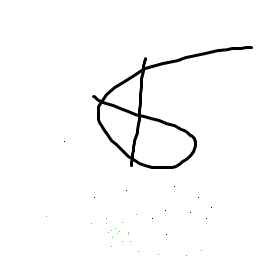
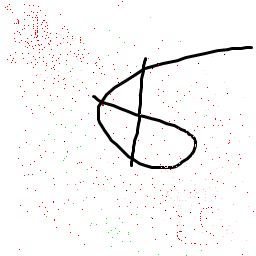
使用socketio并实现批量更新用户操作

Changed region(s): [[0.125, 0.0625, 0.1562, 0.1562], [0.625, 0.625, 0.6562, 0.6562], [0.0938, 0.1562, 0.125, 0.1875]]

diff --git a/src/static/index.html b/src/static/index.html
@@ -19,12 +19,16 @@
 			box-shadow: 0 0 5px grey;
 			transform-origin: top left;
 		}
+		.common-colors {
+			box-shadow: 0 0 5px grey;
+			border-radius: 5px;
+		}
 		.color-card {
 			display: inline-block;
 			width: 22px;
   		height: 22px;
   		margin: 1px 4px;
-			border: 1px solid;
+			border: 1px solid lightgray;
   		border-radius: 5px;
   		cursor: pointer;
   		transform-origin: 50% 50%;
@@ -49,6 +53,7 @@
 	</div>
 </body>
 <script src="vue2.6.1.js"></script>
+<script src="/socket.io/socket.io.js"></script>
 <script>
 	const app = new Vue({
 		el: '#app',
@@ -177,12 +182,15 @@
 				var x = (clientX - rect.left) / this.zoomFactor
 				var y = (clientY - rect.top) / this.zoomFactor
 
-				this.ws.send(JSON.stringify({
-					type:'drawDot',
-					x:parseInt(x),//e.offsetX,
-					y:parseInt(y),//e.offsetY,
+				x = parseInt(x)
+				y = parseInt(y)
+				this.ws.emit('drawDot', {
+					x:x,//e.offsetX,
+					y:y,//e.offsetY,
 					color:this.color,
-				}))
+				})
+				this.ctx.fillStyle = this.color
+				this.ctx.fillRect(x, y, 1, 1)
 			},
 			//滚轮放大缩小
 			handleZoom(e) {
@@ -207,42 +215,43 @@
 			},
 		},
 		mounted() {
-			var ws = new WebSocket(`ws://${location.host}/pixel`)//location.host API
+			var ws = io()
+			// var ws = new WebSocket(`ws://${location.host}/pixel`)//location.host API
 			this.ws = ws
 
 			var canvas = this.$refs.canvas
-			//canvas放大不失真
-			// canvas.addEventListener('click',this.handleCanvasClick)
+			//canvas放大不虚化
+			
 			canvas.style.imageRendering = 'pixelated'
 
 			var ctx = canvas.getContext('2d')
 			this.ctx = ctx
 
-			ws.onmessage = (e) => {
-				var data = e.data
-
-
-				if (Object.prototype.toString.call(data) === '[object Blob]') {
-					
-					var tmpUrl = URL.createObjectURL(data)
-					var image = new Image()
-					image.src = tmpUrl 
-					image.onload = () => {
-						//获取图片地址马上画上去很困难，加个异步延迟执行
-						ctx.drawImage(image, 0, 0)
-					}
-				} else {
-					data = JSON.parse(data)
-					if (data.type == 'updateDot') {
-							ctx.fillStyle = data.color
-							ctx.fillRect(data.x, data.y, 1, 1)
-					} else if (data.type = 'onlineCount') {
-						this.onlineCount = data.count
-					}
+			ws.on('init', imgBinaryData => {
+				console.log('加载图片初始状态使用了',imgBinaryData.byteLength,'字节')
+				var blob = new Blob([new Uint8Array(imgBinaryData)])
+				var tmpUrl = URL.createObjectURL(blob)
+				var image = new Image()
+				image.src = tmpUrl 
+				image.onload = () => {
+					//获取图片地址马上画上去很困难，加个异步延迟执行
+					ctx.drawImage(image, 0, 0)
 				}
-			}		
+			})
+
+			ws.on('updateDot', operationList => {
+				operationList.forEach(data => {
+					ctx.fillStyle = data.color
+					ctx.fillRect(data.x, data.y, 1, 1)
+				})
+			})
+
+			ws.on('onlineCount', data => {
+				console.log(data)
+				this.onlineCount = data.count
+			})
 		}
 	})
-	//问题一 canvas 放大发虚
+	
 </script>
 </html>

diff --git a/src/app.js b/src/app.js
@@ -4,12 +4,13 @@ const path = require('path')
 const ws = require('ws')
 const express = require('express')
 const Jimp = require('jimp')
+const socketIO = require('socket.io')
 
 const port = 9095
 
 const app = express()
 const server = http.createServer(app)
-const wss = new ws.Server({server})
+const io = socketIO(server)
 
 const width = 256
 const height = 256
@@ -37,58 +38,52 @@ async function main() {
 		}
 	
 	}, 3000)
-	
-	wss.on('connection',(ws, req) => {
+	//批量更新
+	let userOperations = []
+
+	setInterval(() => {
+		io.emit('updateDot', userOperations)
+		userOperations = []
+	}, 300)
+
+	io.on('connection',(ws, req) => {
 		//首次连接发送buffer数据
 		img.getBuffer(Jimp.MIME_PNG, (err, buf) => {
 			if(err) {
 				console.log('get buffer err', err)
 			} else {
-				ws.send(buf)
+				ws.emit('init', buf)
 			}
 		})
 		//在线人数功能
-		wss.clients.forEach(ws => {
-			ws.send(JSON.stringify({
-				type:'onlineCount',
-				count:wss.clients.size,
-			}))
-		})
-
+		io.emit('onlineCount',{
+			count:Object.keys(io.sockets.sockets).length,
+		})		
 		ws.on('close', () => {
-			wss.clients.forEach(ws => {
-				ws.send(JSON.stringify({
-					type:'onlineCount',
-					count:wss.clients.size,
-				}))
+			io.emit('onlineCount',{
+				count:Object.keys(io.sockets.sockets).length,
 			})
 		})
 		var lastDraw = 0
 	
-		ws.on('message', msg => {
-			msg = JSON.parse(msg)
+		ws.on('drawDot',data => {
 			var now = Date.now()
-			var {x, y, color} = msg
-			//限制频繁绘制
-			if (msg.type == 'drawDot') {
-				if (now - lastDraw < 200) {
-					return 
-				}
-	
-				if (x > 0 && y > 0 && x < width && y < height) {
-					lastDraw = now
-					//绘制更新间隔标志，用于判断是否保存到本地 
-					lastUpdate = now
-					//后端接收坐标颜色信息，并返回给前端
-					img.setPixelColor(Jimp.cssColorToHex(color), x, y)
-					wss.clients.forEach(client => {
-						client.send(JSON.stringify({
-							type: 'updateDot',
-							x, y, color
-						}))
-					})
-				}
+			var {x, y, color} = data
+			if (now - lastDraw < 200) {
+				return 
 			}
+
+			if (x > 0 && y > 0 && x < width && y < height) {
+				lastDraw = now
+				//绘制更新间隔标志，用于判断是否保存到本地 
+				lastUpdate = now
+				//后端接收坐标颜色信息，并返回给前端
+				img.setPixelColor(Jimp.cssColorToHex(color), x, y)
+				// io.emit('updateDot', {
+				// 	x, y, color
+				// })
+				userOperations.push({x, y, color})
+			}	
 		})
 	})
 	
